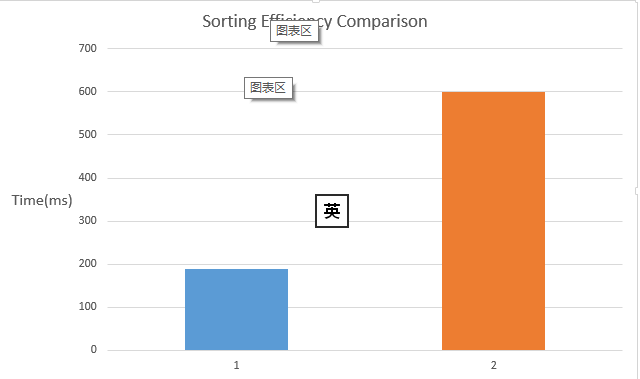
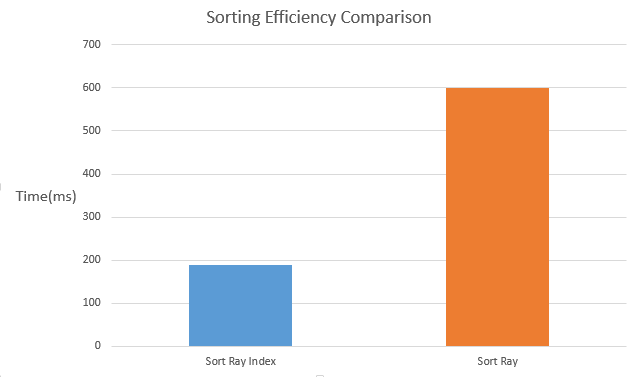
readme

diff --git a/README.md b/README.md
@@ -43,13 +43,14 @@ Closed Scene
 
 When the rays in different threads hit the object with different material, the threads will get into different branches and the overall efficency will be decreased. To reduce the branches of the tracing process, we need to sort the ray according to their material so that the rays in one block will probably hit the same material. However, since our scene is very simple and there are not too many different materials for in a row(we scan the pixel row by row), sorting by material may not produce great difference.
 
-But we still need to talk about the way of sorting by materials, because it will be necessary when the scene become complex. There are mainly 2 ways for sorting the ray by materials. One is sorting the ray directly and the other is sorting the indices of the ray. The comparison of the efficency of 2 methods is shown below(Method 1 is sorting by indices and method 2 is sorting directly by ray). Obviously, sorting the indices will be more than 3 times faster than directly sorting the ray. That is because the `Ray` here is a struct or class obj and its size is much bigger than a simple integer.Moreover, it is saved on the global memory of GPU and accessing such a huge data will take much more time than accessing a simple integer. 
+But we still need to talk about the way of sorting by materials, because it will be necessary when the scene become complex. There are mainly 2 ways for sorting the ray by materials. One is sorting the ray directly and the other is sorting the indices of the ray. The comparison of the efficency of 2 methods is shown below(Method 1 is sorting by indices and method 2 is sorting the ray directly). Obviously, sorting the indices will be more than 3 times faster than directly sorting the ray. That is because the `Ray` here is a struct or class obj and its size is much bigger than a simple integer.Moreover, it is saved on the global memory of GPU and accessing such a huge data will take much more time than accessing a simple integer. 
 
 ![](./img/Sorting.png) 
 
 * **MIS and Direct Lighting**
 
-For the naive ray tracing method, we cannot get a very good illumination distribution since many rays will hit nothing and return 0 value. We want the rays have higher possibility to hit the light, because the light contribute most for the global illumination(which is the idea of importance sampling). For MIS, See PBRT for more info. By using MIS, we get a image with better illumination distribution in less iterations.  
+For the naive ray tracing method, we cannot get a very good illumination distribution since many rays will hit nothing and return 0 value. We want the rays have higher possibility to hit the light, because the light contribute most for the global illumination(which is the idea of importance sampling). For MIS, See PBRT Charpter 15 and 16 for more info. By using MIS, we get a image with better illumination distribution in less iterations. 
+
 
 Naive 200 iterations     
 ![](./img/cornellNaive.png) 
@@ -57,7 +58,9 @@ Naive 200 iterations
 MIS 200 iterations   
 ![](./img/cornellMIS.png) 
        
-         
+When sampling a sphere light, I use the [Jian Ru's](https://github.com/jian-ru/Project3-CUDA-Path-Tracer) code to mathematically compute the pdf on a certain direction. 
+       
+
 * **Russian roulette**
 
 Russian roulette will terminated the rays that have very little energy and directly compute the compensation for that part, which will decrease the times of iterations and improve the overall efficency. As the graph shows, Russian roulette will produce great effect when the scene is closed.
@@ -80,3 +83,4 @@ Depth field camera
 * **BVH Tree**
 
 Still updating......
+Materials related to the bvh structure on GPU, click [here](https://devblogs.nvidia.com/parallelforall/thinking-parallel-part-ii-tree-traversal-gpu/)
